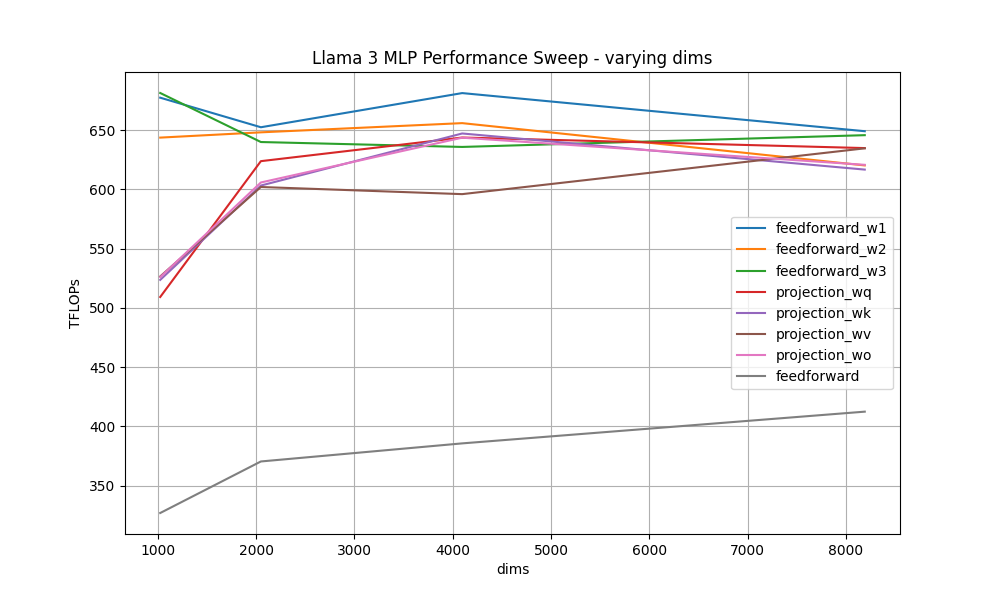
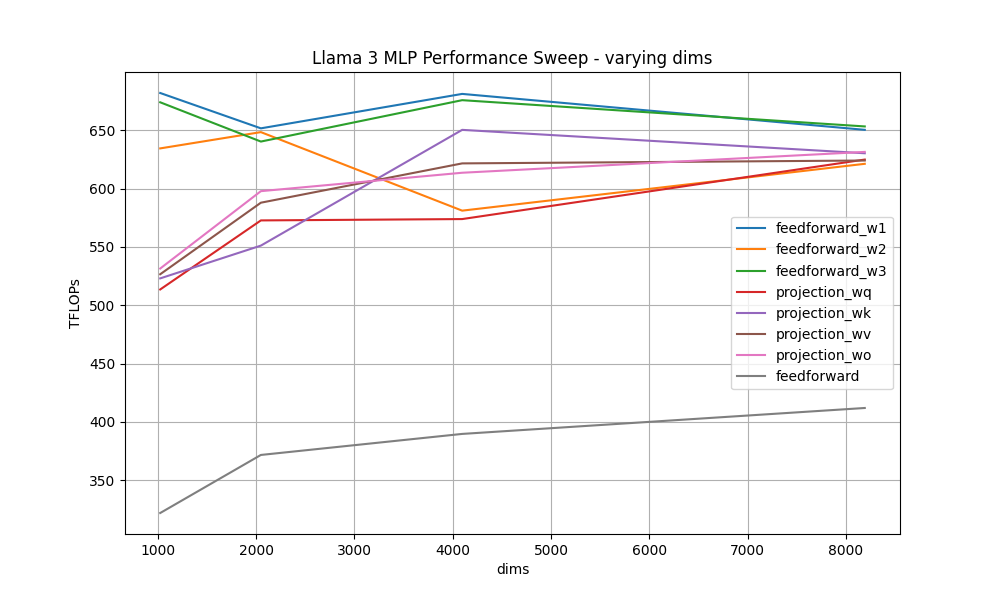
tflop

diff --git a/benchmarking/llama/llama_bench.py b/benchmarking/llama/llama_bench.py
@@ -80,7 +80,7 @@ def feedforward_benchmark(ff_layer, input_tensor):
     tflop += 2 * input_tensor.size(0) * input_tensor.size(1) * input_tensor.size(2) * ff_layer.w3.out_features / 1e12
     
     # F.silu(self.w1(x)) * self.w3(x)
-    tflop += 3 * input_tensor.size(0) * input_tensor.size(1) * ff_layer.w1.out_features / 1e12
+    tflop += 6 * input_tensor.size(0) * input_tensor.size(1) * ff_layer.w1.out_features / 1e12
     
     # self.w2(F.silu(self.w1(x)) * self.w3(x))
     tflop += 2 * input_tensor.size(0) * ff_layer.w1.out_features * ff_layer.w2.out_features / 1e12
